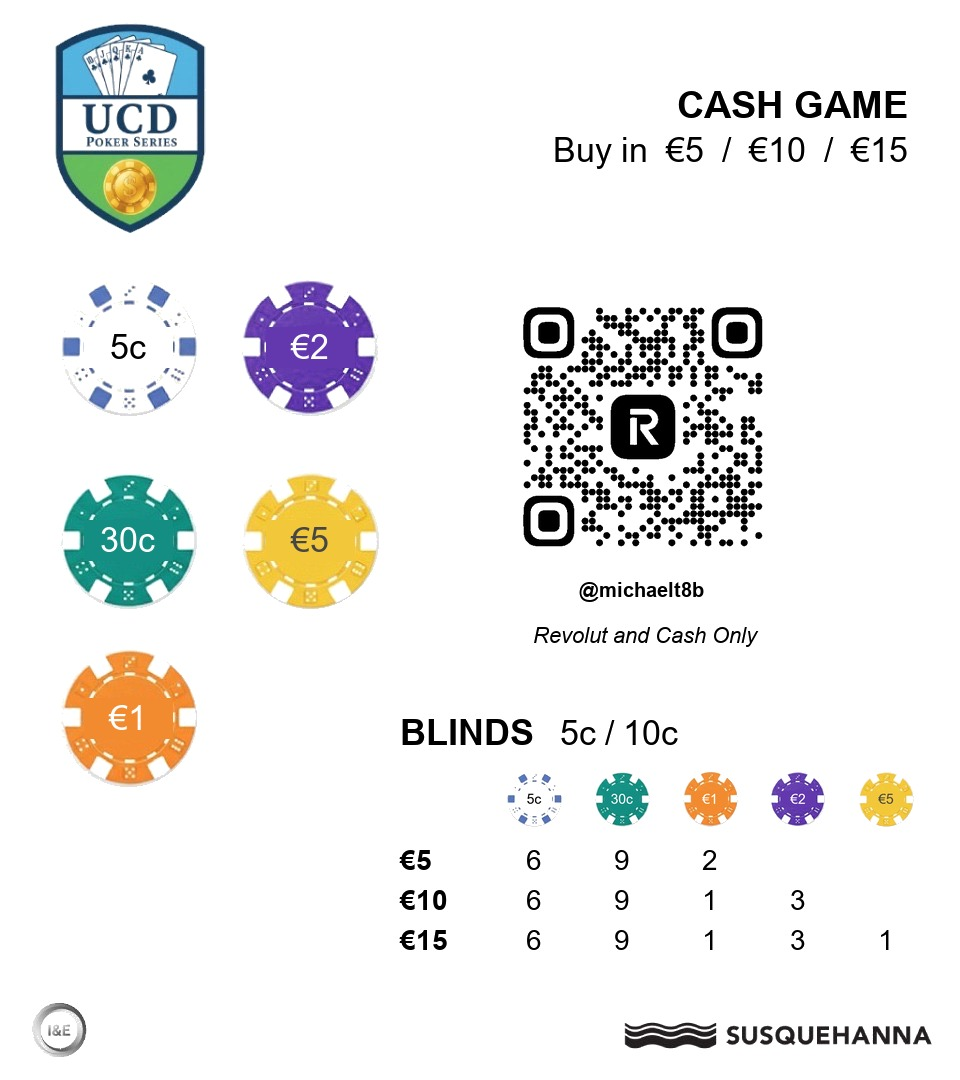
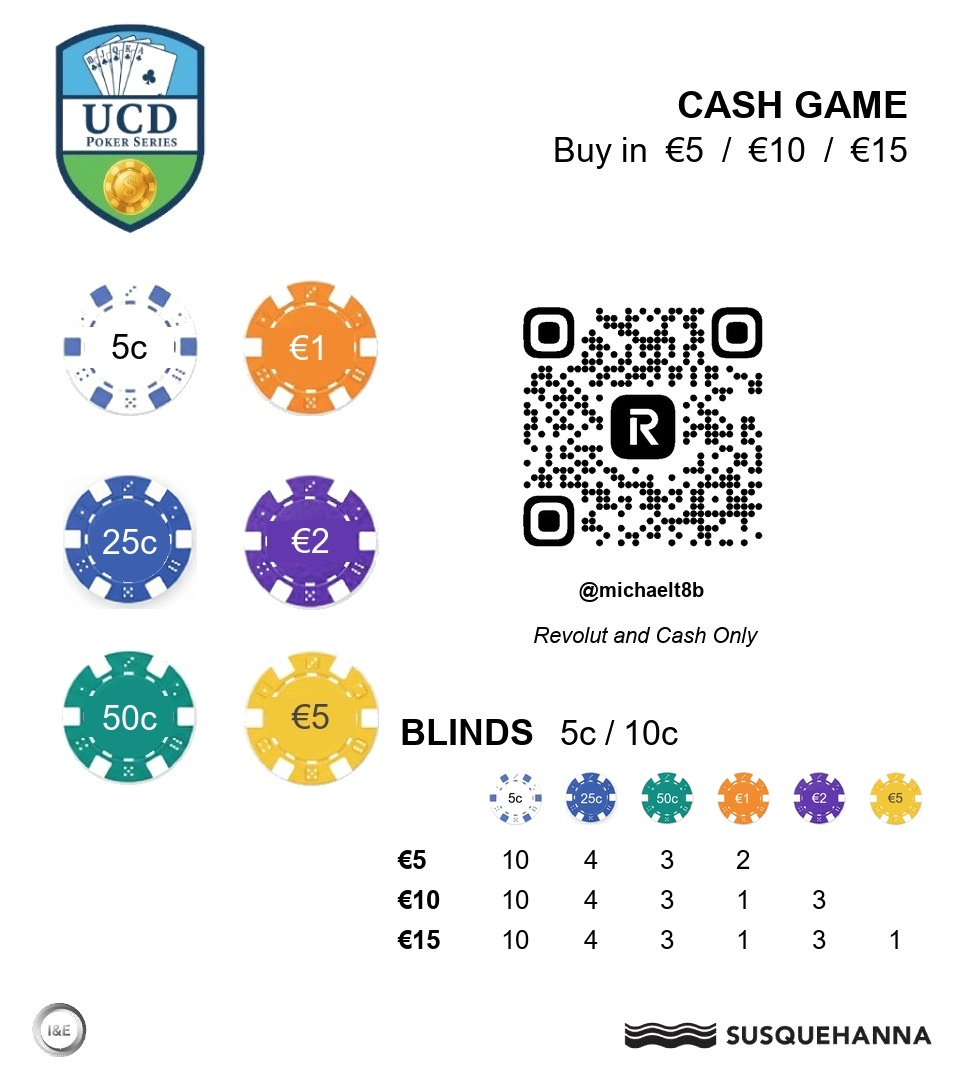
Cash sheet: add blue 25c chip, green 30c -> 50c, rebalance stacks

diff --git a/README.md b/README.md
@@ -15,8 +15,8 @@ Two versions:
 `poker_blinds.jpeg` is the printed blind-structure sheet the default levels
 are based on. `poker_blinds_johnny.jpeg` is the same sheet with Johnny's
 Revolut QR (@johnpa61dj) for buy-ins. `poker_blinds_cash.jpeg` is the cash-game
-version: 5c/10c blinds, €5/€10/€15 buy-ins with the chip count for each, and
-Michael's Revolut QR (@michaelt8b).
+version: 5c/10c blinds, chips 5c/25c/50c/€1/€2/€5, €5/€10/€15 buy-ins with
+the chip count for each, and Michael's Revolut QR (@michaelt8b).
 
 ## Run
 
